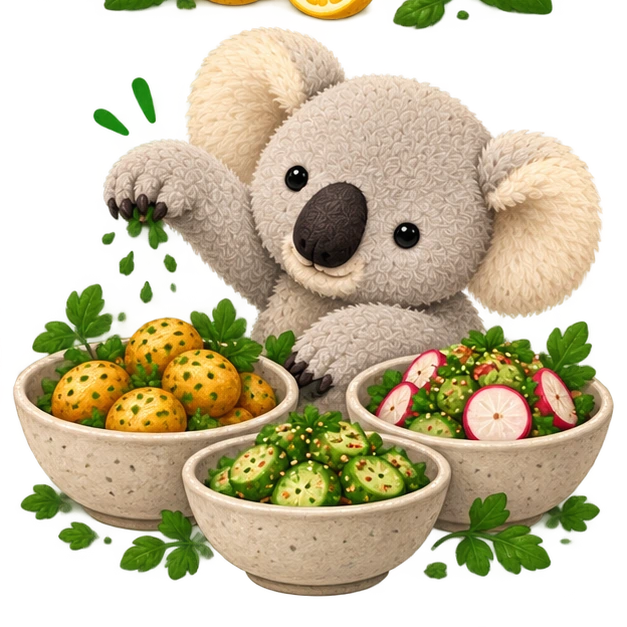
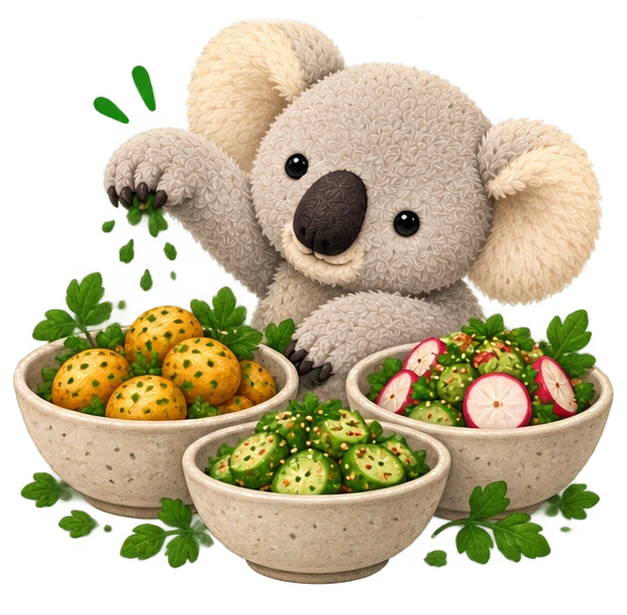
Refine recipe and category artwork
Blend recipe photos into the title area without visible captions and finish the koala category crop.

diff --git a/index.html b/index.html
@@ -103,20 +103,19 @@
     .recipe-layout { display: grid; grid-template-columns: minmax(0, 1.45fr) minmax(300px, .75fr);
       grid-template-areas: "head ingredients" "steps ingredients";
       gap: 30px clamp(28px, 4vw, 58px); align-items: start; }
-    .recipe-head { grid-area: head; display: grid;
-      grid-template-columns: minmax(0, 1fr) minmax(220px, 42%);
-      gap: 28px; align-items: stretch; }
-    .recipe-head .copy { padding: 20px 0; }
+    .recipe-head { grid-area: head; position: relative; min-height: 220px;
+      overflow: hidden; }
+    .recipe-head .copy { position: relative; z-index: 1; width: min(70%, 620px); padding: 28px 0; }
     .recipe-head h1 { margin-bottom: 18px; }
     .tags { display: flex; flex-wrap: wrap; gap: 8px; margin: 16px 0; }
     .tag { border-radius: 100px; background: #ecf0e6; padding: 5px 12px;
       color: #47604e; font-size: .8rem; font-weight: 650; }
-    .hero-art { margin: 0; min-height: 220px; border-radius: 24px; background: #e6ece0;
-      display: flex; flex-direction: column; justify-content: center; align-items: center;
-      font-size: 5rem; color: #718a6f; overflow: hidden; }
-    .hero-art img { width: 100%; height: 260px; object-fit: cover; }
-    .hero-art figcaption { width: 100%; padding: 8px 13px; font-size: .7rem;
-      line-height: 1.3; color: #354539; background: #f4efe6; }
+    .hero-art { position: absolute; inset: 0 0 0 auto; width: 58%; margin: 0;
+      pointer-events: none; }
+    .hero-art img { display: block; width: 100%; height: 100%; object-fit: cover; opacity: .56;
+      mask-image: linear-gradient(to right, transparent 1%, #000 62%),
+        linear-gradient(to bottom, transparent 0, #000 14%, #000 72%, transparent 100%);
+      mask-composite: intersect; }
     .ingredients-sidebar { grid-area: ingredients; }
     .recipe-steps { grid-area: steps; }
     .panel { background: #fffefa; border: 1px solid #e9e4d9; border-radius: 24px; padding: clamp(20px, 2.5vw, 32px); }
@@ -174,9 +173,9 @@
       .card-art { flex-basis: 110px; }
       .recipe-layout { grid-template-columns: 1fr;
         grid-template-areas: "head" "ingredients" "steps"; gap: 24px; }
-      .recipe-head { grid-template-columns: 1fr; }
-      .hero-art { min-height: 170px; }
-      .hero-art img { height: 220px; }
+      .recipe-head { min-height: 200px; }
+      .recipe-head .copy { width: 72%; padding: 20px 0; }
+      .hero-art { width: 62%; }
       .cook { min-height: calc(100dvh - 140px); }
     }
     @media (prefers-reduced-motion: reduce) {
@@ -366,7 +365,7 @@
     }
     function card(recipe) {
       const node = button('', 'card', () => openRecipe(recipe));
-      node.setAttribute('aria-label', `Open ${recipe.title}${recipe.imageCaption ? `. ${recipe.imageCaption}` : ''}`);
+      node.setAttribute('aria-label', `Open ${recipe.title}`);
       const art = element('span', 'card-art', recipe.title.charAt(0).toUpperCase());
       if (recipe.image) {
         const image = element('img');
@@ -509,15 +508,16 @@
       append(copy, element('span', 'eyebrow', recipe.category), element('h1', '', recipe.title),
         element('p', 'muted', timeDescription(recipe)));
       append(copy, append(element('div', 'tags'), ...recipe.tags.map((tag) => element('span', 'tag', tag))));
-      const art = element('figure', 'hero-art', recipe.title.charAt(0).toUpperCase());
+      const art = element('figure', 'hero-art');
       if (recipe.image) {
         const image = element('img');
         image.src = recipe.image;
         image.alt = recipe.imageAlt || recipe.title;
-        image.addEventListener('error', () => art.replaceChildren(document.createTextNode(recipe.title.charAt(0).toUpperCase())));
-        art.replaceChildren(image, element('figcaption', '', recipe.imageCaption || 'Representative photo'));
+        image.addEventListener('error', () => art.remove());
+        art.append(image);
       }
-      append(head, copy, art);
+      append(head, copy);
+      if (recipe.image) head.append(art);
       const layout = element('div', 'recipe-layout');
       const ingredientsPanel = element('aside', 'panel ingredients-sidebar');
       ingredientsPanel.append(element('h2', '', 'Ingredients'));

diff --git a/README.md b/README.md
@@ -54,7 +54,7 @@ The complete data shape is in [`schema/recipes.schema.json`](schema/recipes.sche
 | `notes` | string | Use `""` if none. |
 | `image` | string | `""` for no photo (the card shows the recipe's initial letter), or a relative `images/…` path without `..`. A photo that fails to load falls back to the letter. |
 | `imageAlt` | string, optional | Describe what the photo actually shows; required by validation when `image` is set. |
-| `imageCaption` | string, optional | Visible caption identifying representative photos; required by validation when `image` is set. |
+| `imageCaption` | string, optional | Internal photo context retained with the recipe data; required by validation when `image` is set but not displayed in the app. |
 
 All recipe fields are required so scripts and iOS Shortcuts can append a predictable object; unknown values use the explicit representations above. Additional fields are rejected. Copy the shape of an existing entry in `recipes.json` and replace its ID and content.
 
@@ -62,7 +62,7 @@ The catalogue contains only family recipes and requested linked recipes, with no
 
 ## Photos and credits
 
-Most bundled photos are **representative** (related dishes or key ingredients, from Wikimedia Commons under CC0 / CC BY / CC BY-SA). Recipe cards no longer show a representative badge; photo captions remain on the recipe page. The banana macaroon photo was supplied by the user, who confirmed permission to reproduce it; it retains its Nest & Glow attribution. Creators, sources, permissions, licenses and image processing are listed in [`images/CREDITS.md`](images/CREDITS.md).
+Most bundled photos are **representative** (related dishes or key ingredients, from Wikimedia Commons under CC0 / CC BY / CC BY-SA). The app uses them decoratively without badges or captions. The banana macaroon photo was supplied by the user, who confirmed permission to reproduce it; its attribution remains recorded in the recipe data and image credits. Creators, sources, permissions, licenses and image processing are listed in [`images/CREDITS.md`](images/CREDITS.md).
 
 To use your own photo: save it under `images/` (landscape, roughly 960 px wide; WebP or JPEG), point the recipe's `image` at it, update `imageAlt` and `imageCaption` to describe it, and update or remove its row in `CREDITS.md`. If you delete a photo that is no longer used, delete its credit too. Only add images you took yourself or whose license allows reuse, and credit them as that license requires. Do not hotlink external images.
 
